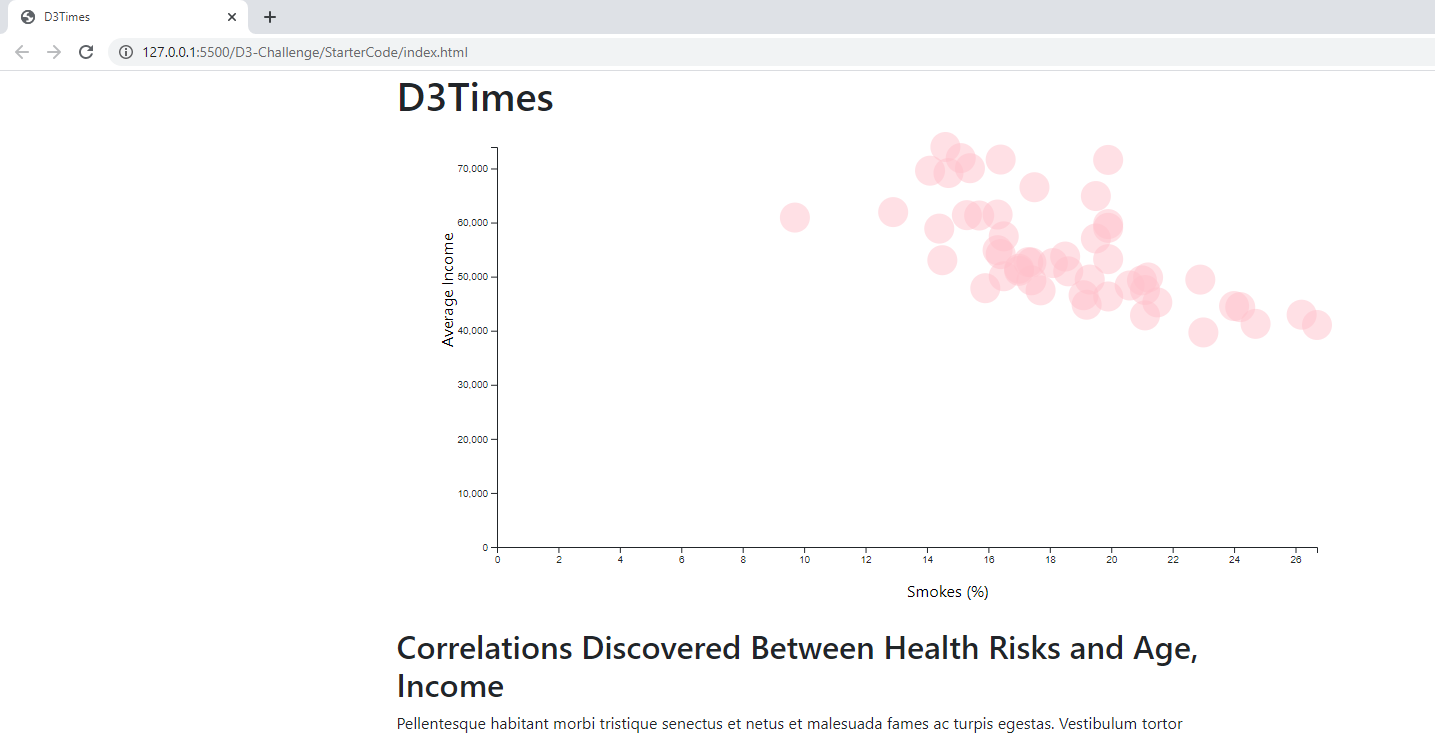
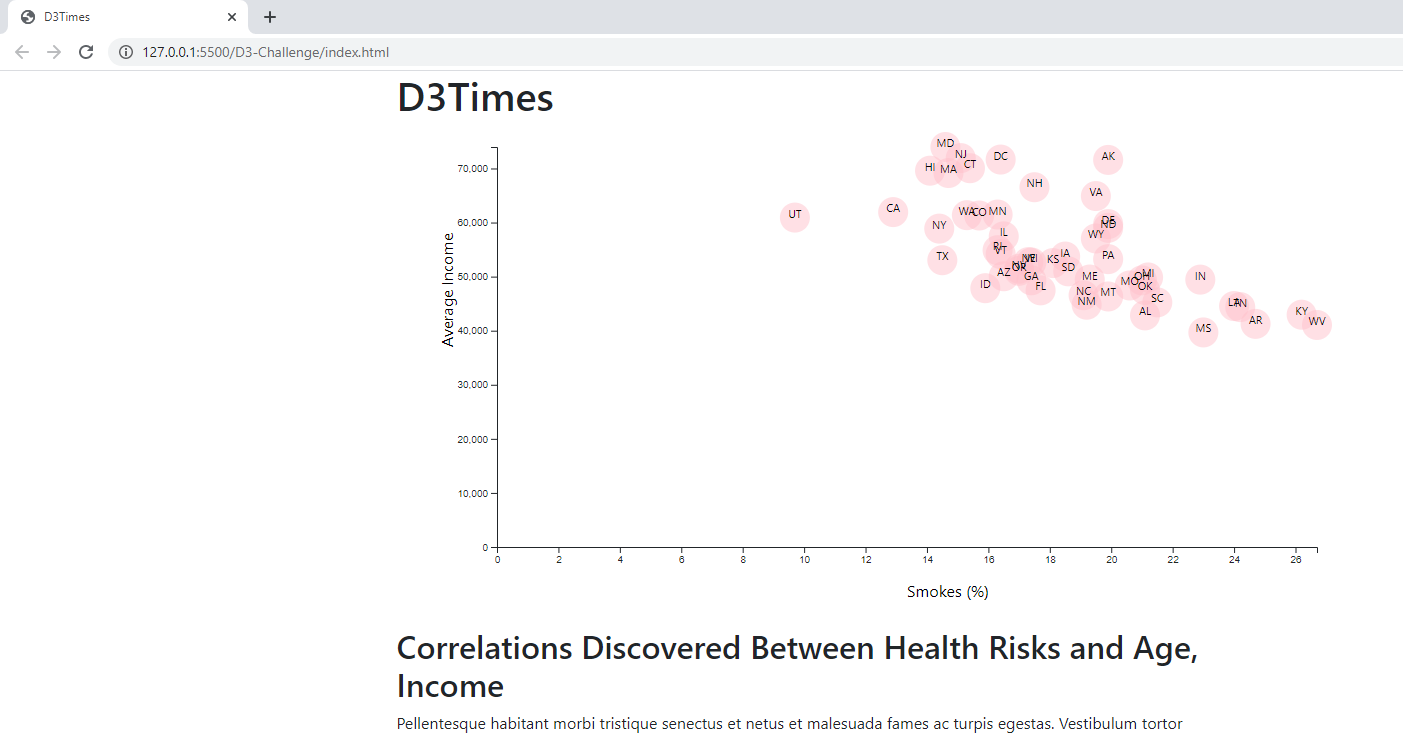
Debugging

diff --git a/assets/js/app.js b/assets/js/app.js
@@ -68,7 +68,21 @@ d3.csv("assets/js/stateData.csv").then(function(stateData) {
     .attr("cy", d => yLinearScale(d.income))
     .attr("r", "15")
     .attr("fill", "pink")
-    .attr("opacity", ".5");
+    .attr("opacity", ".5")
+    .text(d => d.abbr)
+    .style("font-size", "11px");
+
+    // Label Circles
+    var circleLabels = chartGroup.selectAll()
+      .data(stateData)
+      .enter()
+      .append("text")
+      .attr("x", d => xLinearScale(d.smokes))
+      .attr("y", d => yLinearScale(d.income))
+      .style("font-size", "11px")
+      .style("text-anchor", "middle")
+      .style("fill", "black")
+      .text(d => d.abbr);
 
     // Step 6: Initialize tool tip
     // ==============================
